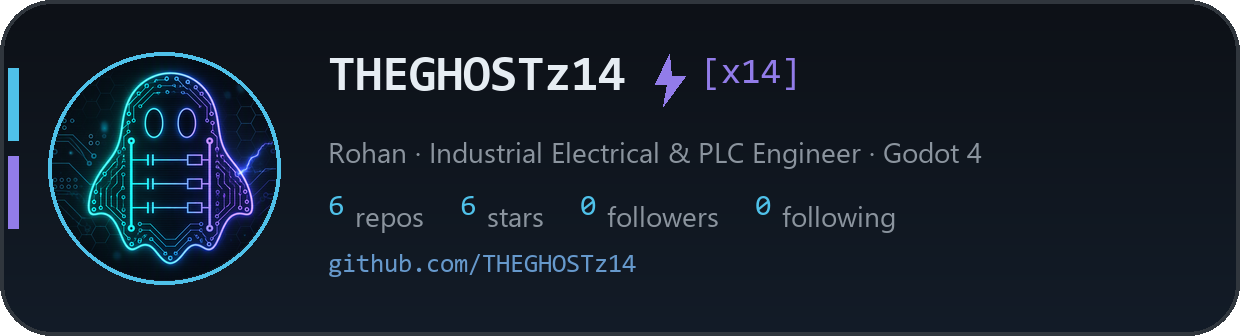
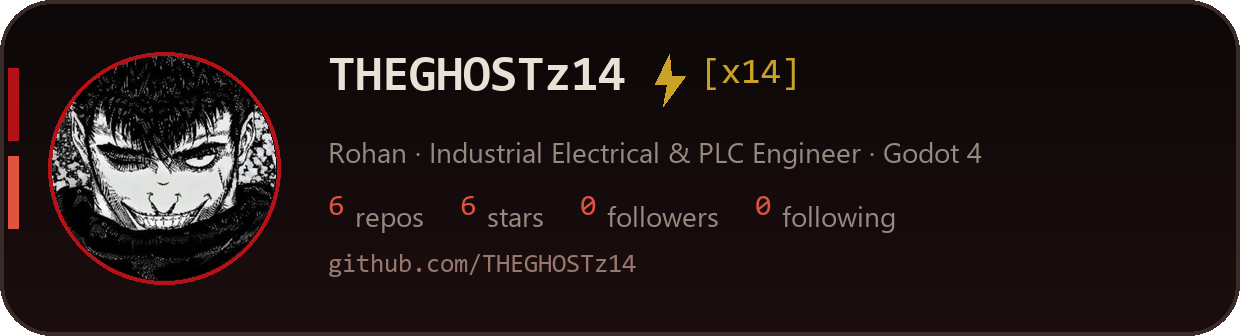
Turn the closing card and the footer into the same theme
The card drops the neon ghost for a Guts panel found on Pinterest, swaps teal
and violet for blood red, ember and gold, and the footer wave runs crimson to
black under "struggle · endure · contend".

diff --git a/tools/build-card.py b/tools/build-card.py
@@ -18,13 +18,13 @@ USERNAME = "THEGHOSTz14"
 SCALE = 2
 W, H = 620 * SCALE, 168 * SCALE
 
-BG = (13, 17, 23)
-BG2 = (19, 28, 40)
-BORDER = (48, 54, 61)
-TEAL = (79, 193, 233)
-VIOLET = (146, 124, 233)
-TEXT = (230, 237, 243)
-MUTED = (139, 148, 158)
+BG = (12, 7, 8)
+BG2 = (28, 14, 15)
+BORDER = (58, 42, 40)
+TEAL = (224, 83, 61)
+VIOLET = (201, 162, 39)
+TEXT = (232, 225, 213)
+MUTED = (150, 137, 127)
 
 
 def api(path):
@@ -65,17 +65,17 @@ def main():
         t = y / H
         d.line([(0, y), (W, y)], fill=tuple(int(BG[i] + (BG2[i] - BG[i]) * t) for i in range(3)))
     d.rounded_rectangle([0, 0, W - 1, H - 1], radius=26 * SCALE, outline=BORDER, width=2 * SCALE)
-    for i, c in enumerate((TEAL, VIOLET)):  # accent bar on the left edge
+    for i, c in enumerate(((179, 18, 23), TEAL)):  # accent bar on the left edge
         d.rectangle([4 * SCALE, 34 * SCALE + i * 44 * SCALE, 9 * SCALE, 70 * SCALE + i * 44 * SCALE], fill=c)
 
-    av = Image.open(ROOT / "assets" / "avatar-ghost.png").convert("RGB")
+    av = Image.open(ROOT / "assets" / "avatar-guts.png").convert("RGB")
     side = min(av.size)
     av = av.crop(((av.width - side) // 2, (av.height - side) // 2,
                   (av.width + side) // 2, (av.height + side) // 2)).resize((112 * SCALE, 112 * SCALE), Image.LANCZOS)
     mask = Image.new("L", av.size, 0)
     ImageDraw.Draw(mask).ellipse([0, 0, av.size[0] - 1, av.size[1] - 1], fill=255)
     img.paste(av, (26 * SCALE, 28 * SCALE), mask)
-    d.ellipse([24 * SCALE, 26 * SCALE, 140 * SCALE, 142 * SCALE], outline=TEAL, width=2 * SCALE)
+    d.ellipse([24 * SCALE, 26 * SCALE, 140 * SCALE, 142 * SCALE], outline=(179, 18, 23), width=2 * SCALE)
 
     x = 164 * SCALE
     f_name = font("C:/Windows/Fonts/consolab.ttf", 25)
@@ -103,7 +103,7 @@ def main():
         d.text((cx + vw + 5 * SCALE, 98 * SCALE), label, font=f_sub, fill=MUTED)
         cx += vw + 5 * SCALE + d.textlength(label, font=f_sub) + 18 * SCALE
 
-    d.text((x, 126 * SCALE), f"github.com/{USERNAME}", font=f_url, fill=(102, 153, 204))
+    d.text((x, 126 * SCALE), f"github.com/{USERNAME}", font=f_url, fill=(150, 120, 110))
 
     alpha = Image.new("L", (W, H), 0)
     ImageDraw.Draw(alpha).rounded_rectangle([0, 0, W - 1, H - 1], radius=26 * SCALE, fill=255)

diff --git a/tools/build-readme.py b/tools/build-readme.py
@@ -448,9 +448,9 @@ def build():
     a("")
     a("> `while (alive) { learn(); build(); ship(); }`")
     a("")
-    a("  " + img("https://capsule-render.vercel.app/api?type=waving&color=0:1f6feb,100:0d1117"
-                 "&height=130&section=footer&text=stay%20haunting&fontSize=26&fontColor=c9d1d9"
-                 "&fontAlignY=82", "footer wave", "100%"))
+    a("  " + img("https://capsule-render.vercel.app/api?type=waving&color=0:b31217,100:0b0707"
+                 "&height=130&section=footer&text=struggle%20%C2%B7%20endure%20%C2%B7%20contend"
+                 "&fontSize=23&fontColor=e8e1d5&fontAlignY=82", "footer wave", "100%"))
     a("")
     a("</div>")
     a("")

diff --git a/README.md b/README.md
@@ -37,8 +37,8 @@
 
 <p align="center">
 
-<img src="assets/stats.svg?v=20261030s2" alt="GitHub stats" width="360">
-<img src="https://github-readme-streak-stats.herokuapp.com/?user=THEGHOSTz14&v=b6a8cc66d2&theme=tokyonight&background=0d1117&border=3a2a28&ring=b31217&fire=e0533d&currStreakLabel=c9a227&sideLabels=e8e1d5&dates=96897f&hide_border=true&card_width=360" alt="Contribution streak">
+<img src="assets/stats.svg?v=20261031s2" alt="GitHub stats" width="360">
+<img src="https://github-readme-streak-stats.herokuapp.com/?user=THEGHOSTz14&v=9af387f283&theme=tokyonight&background=0d1117&border=3a2a28&ring=b31217&fire=e0533d&currStreakLabel=c9a227&sideLabels=e8e1d5&dates=96897f&hide_border=true&card_width=360" alt="Contribution streak">
 
 </p>
 
@@ -112,25 +112,25 @@
 
 <p align="center">
 
-<a href="https://github.com/THEGHOSTz14/GHOST_WEB_GAME-"><img src="assets/repos/GHOST_WEB_GAME-.svg?v=20261030c5" alt="GHOST_WEB_GAME-" width="480"></a>
+<a href="https://github.com/THEGHOSTz14/GHOST_WEB_GAME-"><img src="assets/repos/GHOST_WEB_GAME-.svg?v=20261031c5" alt="GHOST_WEB_GAME-" width="480"></a>
 
 </p>
 
 <p align="center">
 
-<a href="https://github.com/THEGHOSTz14/YOLO-BASIC-MODEL"><img src="assets/repos/YOLO-BASIC-MODEL.svg?v=20261030c5" alt="YOLO-BASIC-MODEL" width="480"></a>
+<a href="https://github.com/THEGHOSTz14/YOLO-BASIC-MODEL"><img src="assets/repos/YOLO-BASIC-MODEL.svg?v=20261031c5" alt="YOLO-BASIC-MODEL" width="480"></a>
 
 </p>
 
 <p align="center">
 
-<a href="https://github.com/THEGHOSTz14/C-"><img src="assets/repos/C-.svg?v=20261030c5" alt="C-" width="480"></a>
+<a href="https://github.com/THEGHOSTz14/C-"><img src="assets/repos/C-.svg?v=20261031c5" alt="C-" width="480"></a>
 
 </p>
 
 <p align="center">
 
-<a href="https://github.com/THEGHOSTz14/PROFICADDD"><img src="assets/repos/PROFICADDD.svg?v=20261030c5" alt="PROFICADDD" width="480"></a>
+<a href="https://github.com/THEGHOSTz14/PROFICADDD"><img src="assets/repos/PROFICADDD.svg?v=20261031c5" alt="PROFICADDD" width="480"></a>
 
 </p>
 
@@ -144,7 +144,7 @@
 
 <p align="center">
 
-<img src="assets/languages.svg?v=20261030c5" alt="Most used languages" width="340">
+<img src="assets/languages.svg?v=20261031c5" alt="Most used languages" width="340">
 
 </p>
 
@@ -179,6 +179,6 @@
 
 > `while (alive) { learn(); build(); ship(); }`
 
-  <img src="https://capsule-render.vercel.app/api?type=waving&color=0:1f6feb,100:0d1117&height=130&section=footer&text=stay%20haunting&fontSize=26&fontColor=c9d1d9&fontAlignY=82" alt="footer wave" width="100%">
+  <img src="https://capsule-render.vercel.app/api?type=waving&color=0:b31217,100:0b0707&height=130&section=footer&text=struggle%20%C2%B7%20endure%20%C2%B7%20contend&fontSize=23&fontColor=e8e1d5&fontAlignY=82" alt="footer wave" width="100%">
 
 </div>
